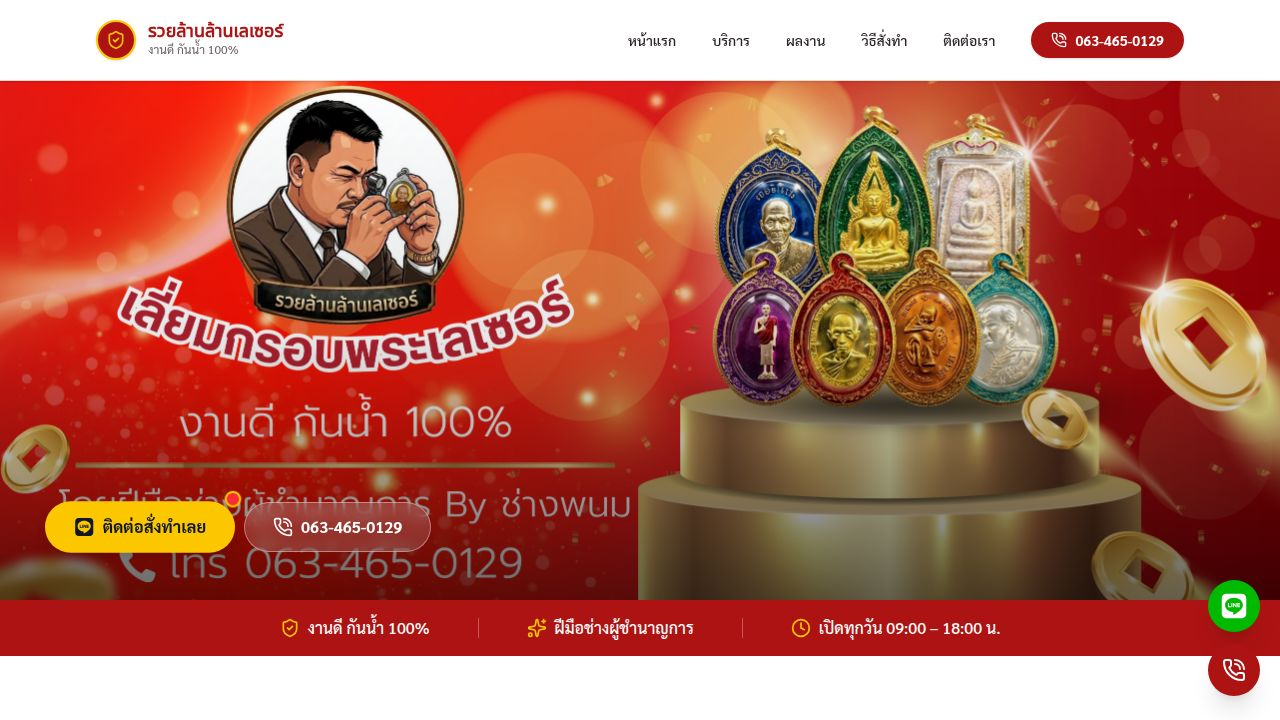
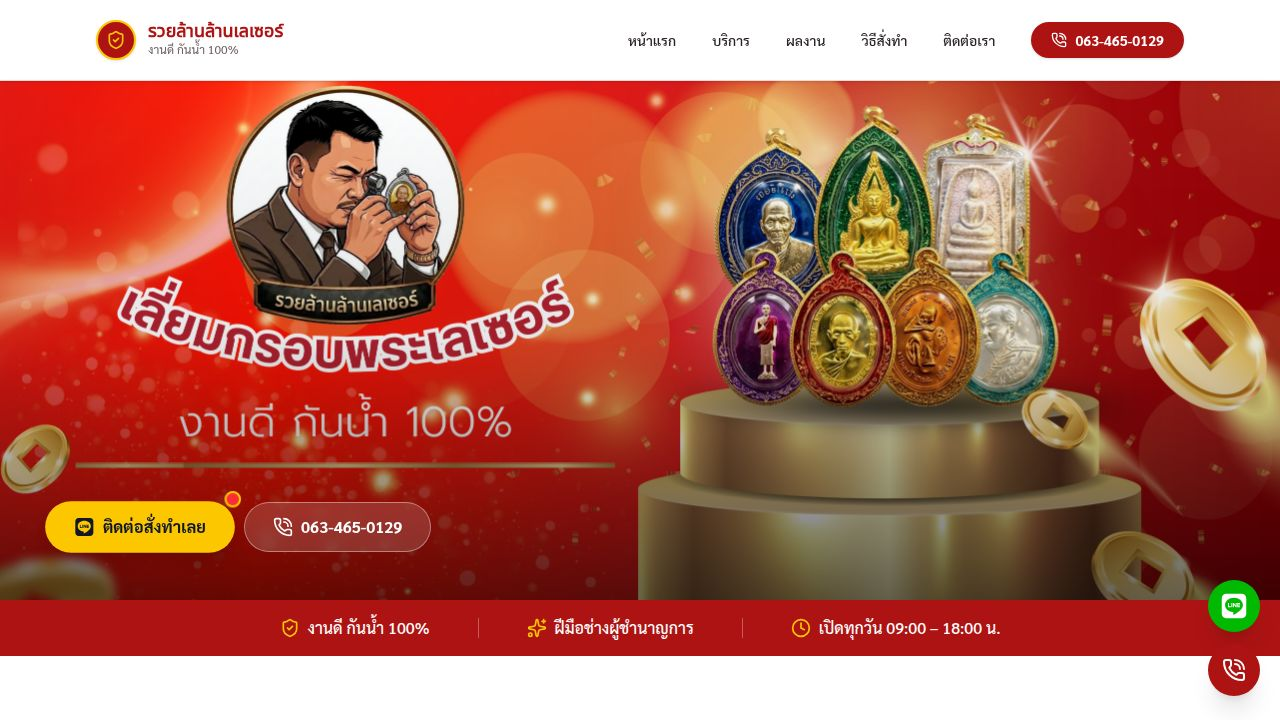
Update contact section to combine phone numbers and improve styling
Consolidate duplicate phone number entries in `Home.tsx` and update gallery images.

Replit-Commit-Author: Agent
Replit-Commit-Session-Id: 85990dfc-bf53-448c-872b-b405b802ebb3
Replit-Commit-Checkpoint-Type: full_checkpoint
Replit-Commit-Event-Id: f85928e8-ca00-48b2-8d3f-9a1d21c5fec5
Replit-Commit-Screenshot-Url: https://storage.googleapis.com/screenshot-production-us-central1/cdaae9af-63c5-4ee3-89a3-55d32f8aefbe/85990dfc-bf53-448c-872b-b405b802ebb3/mQHIuSn
Replit-Helium-Checkpoint-Created: true

Changed region(s): [[0.0312, 0.6722, 0.5, 0.7333], [0.0938, 0.7639, 0.4062, 0.825]]

diff --git a/artifacts/laser-frame-shop/src/pages/Home.tsx b/artifacts/laser-frame-shop/src/pages/Home.tsx
@@ -3,8 +3,15 @@ import { motion, AnimatePresence } from "framer-motion";
 import { FaLine, FaFacebook } from "react-icons/fa";
 import { PhoneCall, ShieldCheck, Sparkles, Droplets, Menu, X, Star, Clock, MapPin, ChevronRight } from "lucide-react";
 import bannerImg from "../assets/banner.png";
-import gallery1Img from "../assets/gallery1.png";
-import gallery2Img from "../assets/gallery2.png";
+import gallery1Img from "../assets/IMG1_2869.jpeg";
+import gallery2Img from "../assets/IMG2_2870.jpeg";
+import gallery3Img from "../assets/IMG3_2871.jpeg";
+import gallery4Img from "../assets/IMG4_2872.jpeg";
+import gallery5Img from "../assets/IMG5_2873.jpeg";
+import gallery6Img from "../assets/IMG6_2874.jpeg";
+import gallery7Img from "../assets/IMG7_2875.jpeg";
+import gallery8Img from "../assets/IMG8_2876.jpeg";
+
 
 // ============================================================
 //  แก้ไขข้อมูลร้านได้ที่นี่ที่เดียว
@@ -16,6 +23,10 @@ const SHOP_CONFIG = {
   craftsman: "By ช่างพนม",
   phone: "063-465-0129",
   phoneRaw: "0634650129",
+  phoneName: "ช่างพนม",
+  phone2: "082-380-6457",
+  phoneRaw2: "0823806457",
+  phone2Name: "คุณขวัญเรือน",
   // แก้ LINE ID ของคุณที่นี่ (ไม่ต้องใส่ @)
   lineId: "ruaylanlanlazer",
   // แก้ Facebook URL ของคุณที่นี่
@@ -99,12 +110,12 @@ const STEPS = [
 const GALLERY_ITEMS: { src: string | null; caption: string }[] = [
   { src: gallery1Img, caption: "ผลงานช่างพนม" },
   { src: gallery2Img, caption: "ผลงานช่างพนม" },
-  { src: null, caption: "กรอบสแตนเลสเลเซอร์" },
-  { src: null, caption: "กรอบทองคำขาว" },
-  { src: null, caption: "กรอบพระหลวงพ่อโสธร" },
-  { src: null, caption: "กรอบพระสมเด็จ" },
-  { src: null, caption: "กรอบพระนาคปรก" },
-  { src: null, caption: "กรอบพระพิมพ์ขนาดใหญ่" },
+  { src: gallery3Img, caption: "กรอบสแตนเลสเลเซอร์" },
+  { src: gallery4Img, caption: "กรอบทองคำขาว" },
+  { src: gallery5Img, caption: "กรอบพระหลวงพ่อโสธร" },
+  { src: gallery6Img, caption: "กรอบพระสมเด็จ" },
+  { src: gallery7Img, caption: "กรอบพระนาคปรก" },
+  { src: gallery8Img, caption: "กรอบพระพิมพ์ขนาดใหญ่" },
 ];
 
 // ============================================================
@@ -469,20 +480,50 @@ export default function Home() {
             transition={{ delay: 0.1 }}
             className="grid grid-cols-1 sm:grid-cols-3 gap-4 mb-10"
           >
-            {/* ปุ่มโทร */}
-            <a
-              href={`tel:${SHOP_CONFIG.phoneRaw}`}
-              className="flex flex-col items-center gap-3 p-6 rounded-2xl bg-white border-2 border-primary/20 hover:border-primary hover:shadow-lg transition-all group"
-              data-testid="button-contact-phone"
+            {/* การ์ดโทรศัพท์ — รวม 2 เบอร์ในการ์ดเดียว */}
+            <div
+              className="flex flex-col items-center gap-4 p-6 rounded-2xl bg-white border-2 border-primary/20 hover:border-primary hover:shadow-lg transition-all"
+              data-testid="card-contact-phone"
             >
-              <div className="w-14 h-14 bg-primary rounded-2xl flex items-center justify-center shadow-md group-hover:scale-110 transition-transform">
+              <div className="w-14 h-14 bg-primary rounded-2xl flex items-center justify-center shadow-md flex-shrink-0">
                 <PhoneCall className="w-7 h-7 text-white" />
               </div>
-              <div>
-                <div className="text-xs text-muted-foreground mb-1">โทรศัพท์</div>
-                <div className="font-bold text-primary text-lg">{SHOP_CONFIG.phone}</div>
+
+              <div className="w-full space-y-3">
+                {/* เบอร์หลัก */}
+                <a
+                  href={`tel:${SHOP_CONFIG.phoneRaw}`}
+                  className="block w-full px-4 py-3 rounded-xl bg-primary/5 hover:bg-primary/10 transition-colors text-center"
+                  data-testid="button-contact-phone-main"
+                >
+                  <div className="flex items-center justify-center gap-2 mb-1">
+                    <span className="text-[10px] font-semibold bg-primary text-white px-2 py-0.5 rounded-full tracking-wide">เบอร์หลัก</span>
+                    <span className="text-[11px] text-muted-foreground">{SHOP_CONFIG.phoneName}</span>
+                  </div>
+                  <div className="font-bold text-primary text-xl tracking-wide">{SHOP_CONFIG.phone}</div>
+                </a>
+
+                {/* เส้นคั่น */}
+                <div className="flex items-center gap-2 px-2">
+                  <div className="flex-1 h-px bg-border" />
+                  <span className="text-[10px] text-muted-foreground">หรือ</span>
+                  <div className="flex-1 h-px bg-border" />
+                </div>
+
+                {/* เบอร์รอง */}
+                <a
+                  href={`tel:${SHOP_CONFIG.phoneRaw2}`}
+                  className="block w-full px-4 py-3 rounded-xl bg-muted/50 hover:bg-muted transition-colors text-center"
+                  data-testid="button-contact-phone-secondary"
+                >
+                  <div className="flex items-center justify-center gap-2 mb-1">
+                    <span className="text-[10px] font-semibold bg-muted-foreground/60 text-white px-2 py-0.5 rounded-full tracking-wide">เบอร์รอง</span>
+                    <span className="text-[11px] text-muted-foreground">{SHOP_CONFIG.phone2Name}</span>
+                  </div>
+                  <div className="font-semibold text-foreground/80 text-lg tracking-wide">{SHOP_CONFIG.phone2}</div>
+                </a>
               </div>
-            </a>
+            </div>
 
             {/* ปุ่ม LINE */}
             <a